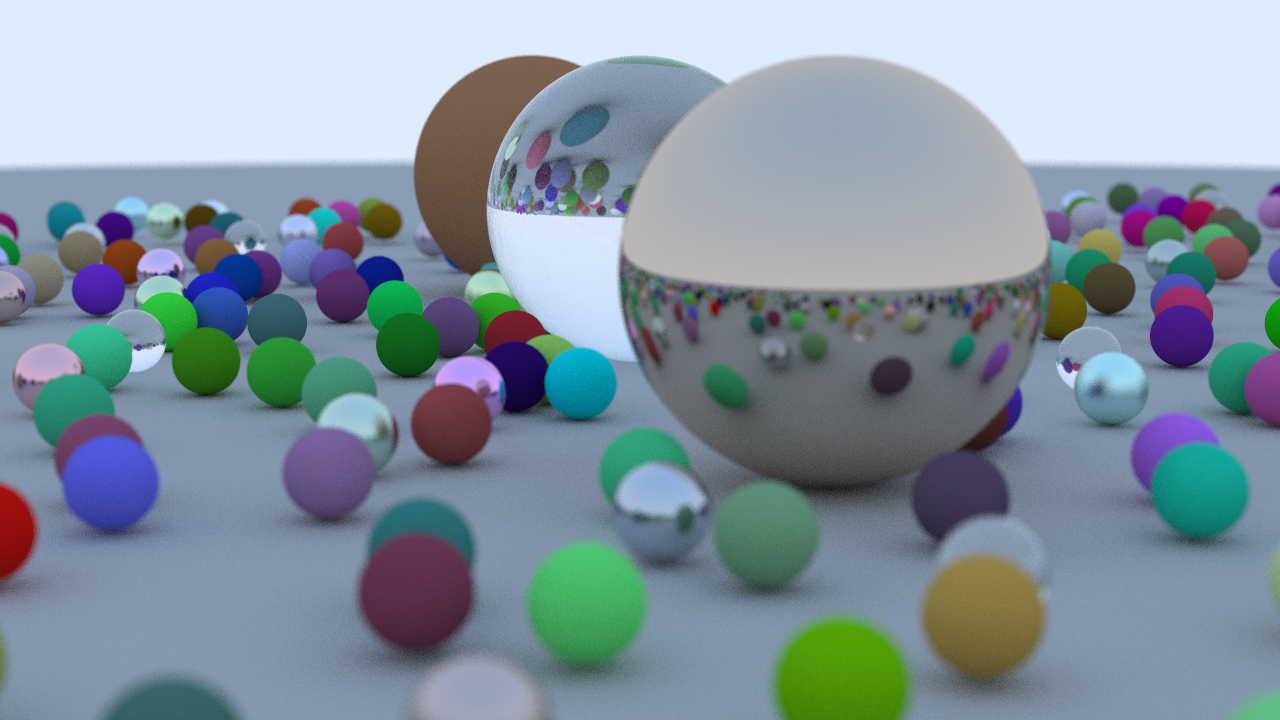
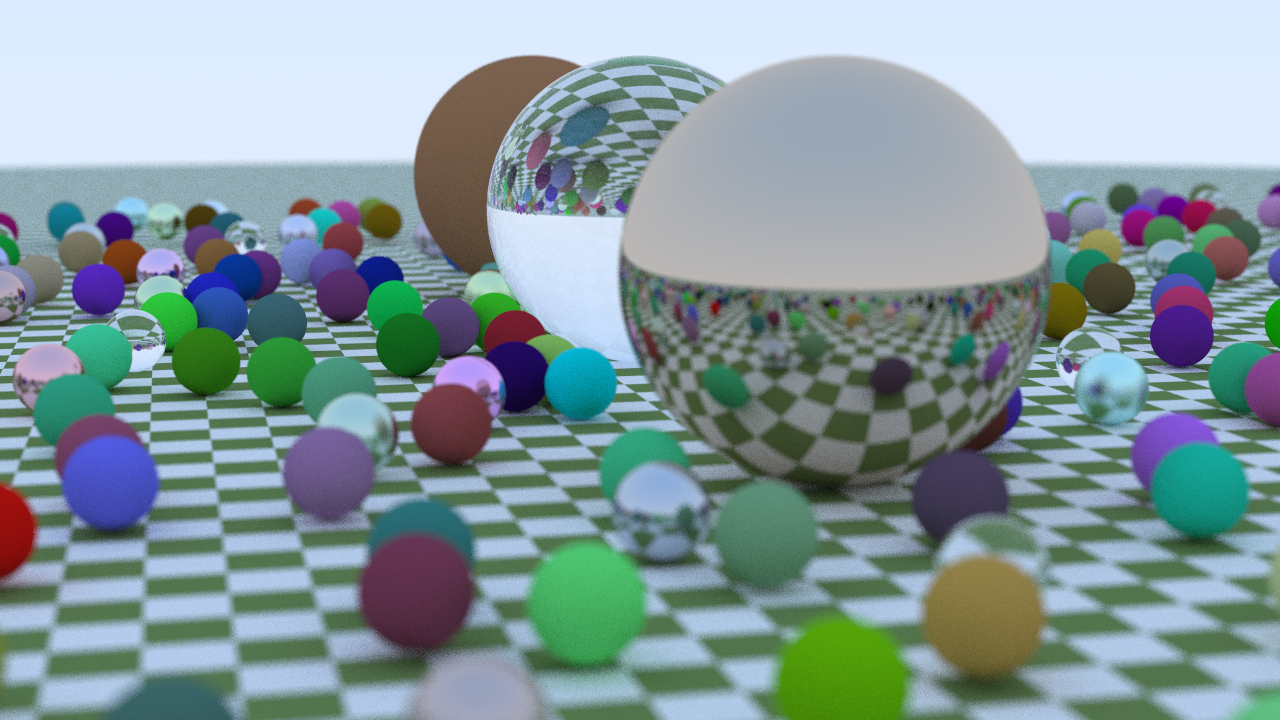
texture

diff --git a/include/Texture.hpp b/include/Texture.hpp
@@ -1,0 +1,48 @@
+#ifndef _RAY_TRACING_LIB_TEXTURE_HPP_
+#define _RAY_TRACING_LIB_TEXTURE_HPP_
+
+#include "common.hpp"
+
+class Texture {
+ public:
+  virtual Color value(double u, double v, const Point3& p) const = 0;
+};
+
+class SolidColor : public Texture {
+ public:
+  SolidColor() {}
+  SolidColor(Color c) : color_value(c) {}
+
+  SolidColor(double red, double green, double blue)
+      : SolidColor(Color(red, green, blue)) {}
+
+  virtual Color value(double u, double v, const Vec3& p) const override {
+    return color_value;
+  }
+
+ private:
+  Color color_value;
+};
+
+class CheckerTexture : public Texture {
+ public:
+  CheckerTexture() {}
+
+  CheckerTexture(shared_ptr<Texture> _even, shared_ptr<Texture> _odd)
+      : even(_even), odd(_odd) {}
+
+  CheckerTexture(Color c1, Color c2)
+      : even(make_shared<SolidColor>(c1)), odd(make_shared<SolidColor>(c2)) {}
+
+  virtual Color value(double u, double v, const Point3& p) const override {
+    auto sines =
+        std::sin(10 * p.x()) * std::sin(10 * p.y()) * std::sin(10 * p.z());
+    return (sines < 0) ? odd->value(u, v, p) : even->value(u, v, p);
+  }
+
+ public:
+  shared_ptr<Texture> odd;
+  shared_ptr<Texture> even;
+};
+
+#endif

diff --git a/include/Sphere.hpp b/include/Sphere.hpp
@@ -17,6 +17,22 @@ class Sphere : public Hittable {
   Point3 center;
   double radius;
   shared_ptr<Material> mat_ptr;
+
+ private:
+  static void get_sphere_uv(const Point3& p, double& u, double& v) {
+    // p: a given point on the sphere of radius one, centered at the origin.
+    // u: returned value [0,1] of angle around the Y axis from X=-1.
+    // v: returned value [0,1] of angle from Y=-1 to Y=+1.
+    //     <1 0 0> yields <0.50 0.50>       <-1  0  0> yields <0.00 0.50>
+    //     <0 1 0> yields <0.50 1.00>       < 0 -1  0> yields <0.50 0.00>
+    //     <0 0 1> yields <0.25 0.50>       < 0  0 -1> yields <0.75 0.50>
+
+    auto theta = std::acos(-p.y());
+    auto phi = std::atan2(-p.z(), p.x()) + pi;
+
+    u = phi / (2 * pi);
+    v = theta / pi;
+  }
 };
 
 bool Sphere::hit(const Ray& r, double t_min, double t_max,
@@ -45,6 +61,7 @@ bool Sphere::hit(const Ray& r, double t_min, double t_max,
   rec.p = r.at(rec.t);
   Vec3 outward_normal = (rec.p - center) / radius;
   rec.set_face_normal(r, outward_normal);
+  get_sphere_uv(outward_normal, rec.u, rec.v);
   rec.mat_ptr = mat_ptr;
 
   return true;

diff --git a/include/Material.hpp b/include/Material.hpp
@@ -2,6 +2,7 @@
 #define _RAY_TRACING_LIB_MATERIAL_HPP_
 
 #include "Hittable.hpp"
+#include "Texture.hpp"
 #include "common.hpp"
 
 class Material {
@@ -12,7 +13,8 @@ class Material {
 
 class Lambertian : public Material {
  public:
-  Lambertian(const Color& a) : albedo(a) {}
+  Lambertian(const Color& a) : albedo(make_shared<SolidColor>(a)) {}
+  Lambertian(shared_ptr<Texture> a) : albedo(a) {}
 
   virtual bool scatter(const Ray& r_in, const hit_record& rec,
                        Color& attenuation, Ray& scattered) const override {
@@ -24,11 +26,11 @@ class Lambertian : public Material {
     }
 
     scattered = Ray(rec.p, scatter_direction);
-    attenuation = albedo;
+    attenuation = albedo->value(rec.u, rec.v, rec.p);
     return true;
   }
 
-  Color albedo;
+  shared_ptr<Texture> albedo;
 };
 
 class Metal : public Material {

diff --git a/RayTracer/main.cpp b/RayTracer/main.cpp
@@ -7,6 +7,7 @@
 #include "Material.hpp"
 #include "Ray.hpp"
 #include "Sphere.hpp"
+#include "Texture.hpp"
 #include "Vec3.hpp"
 #include "color.hpp"
 #include "common.hpp"
@@ -35,7 +36,9 @@ Color ray_color(const Ray& r, const Hittable& world, int depth) {
 HittableList random_scene() {
   HittableList world;
 
-  auto ground_material = make_shared<Lambertian>(Color(0.5, 0.5, 0.5));
+  auto checker =
+      make_shared<CheckerTexture>(Color(0.2, 0.3, 0.1), Color(0.9, 0.9, 0.9));
+  auto ground_material = make_shared<Lambertian>(checker);
   world.add(make_shared<Sphere>(Point3(0, -1000, 0), 1000, ground_material));
 
   for (int a = -11; a < 11; a++) {

diff --git a/include/Image.hpp b/include/Image.hpp
@@ -44,7 +44,7 @@ class Jpg : public Image {
 
   virtual void write(std::string file_name, const std::vector<Color>& pixels,
                      const int& samples) const override {
-    file_name.append(".Jpg");
+    file_name.append(".jpg");
 
     check_file(file_name);
 

diff --git a/include/Hittable.hpp b/include/Hittable.hpp
@@ -11,6 +11,8 @@ struct hit_record {
   Vec3 normal;
   shared_ptr<Material> mat_ptr;
   double t;
+  double u;
+  double v;
   bool front_face;
 
   /**
